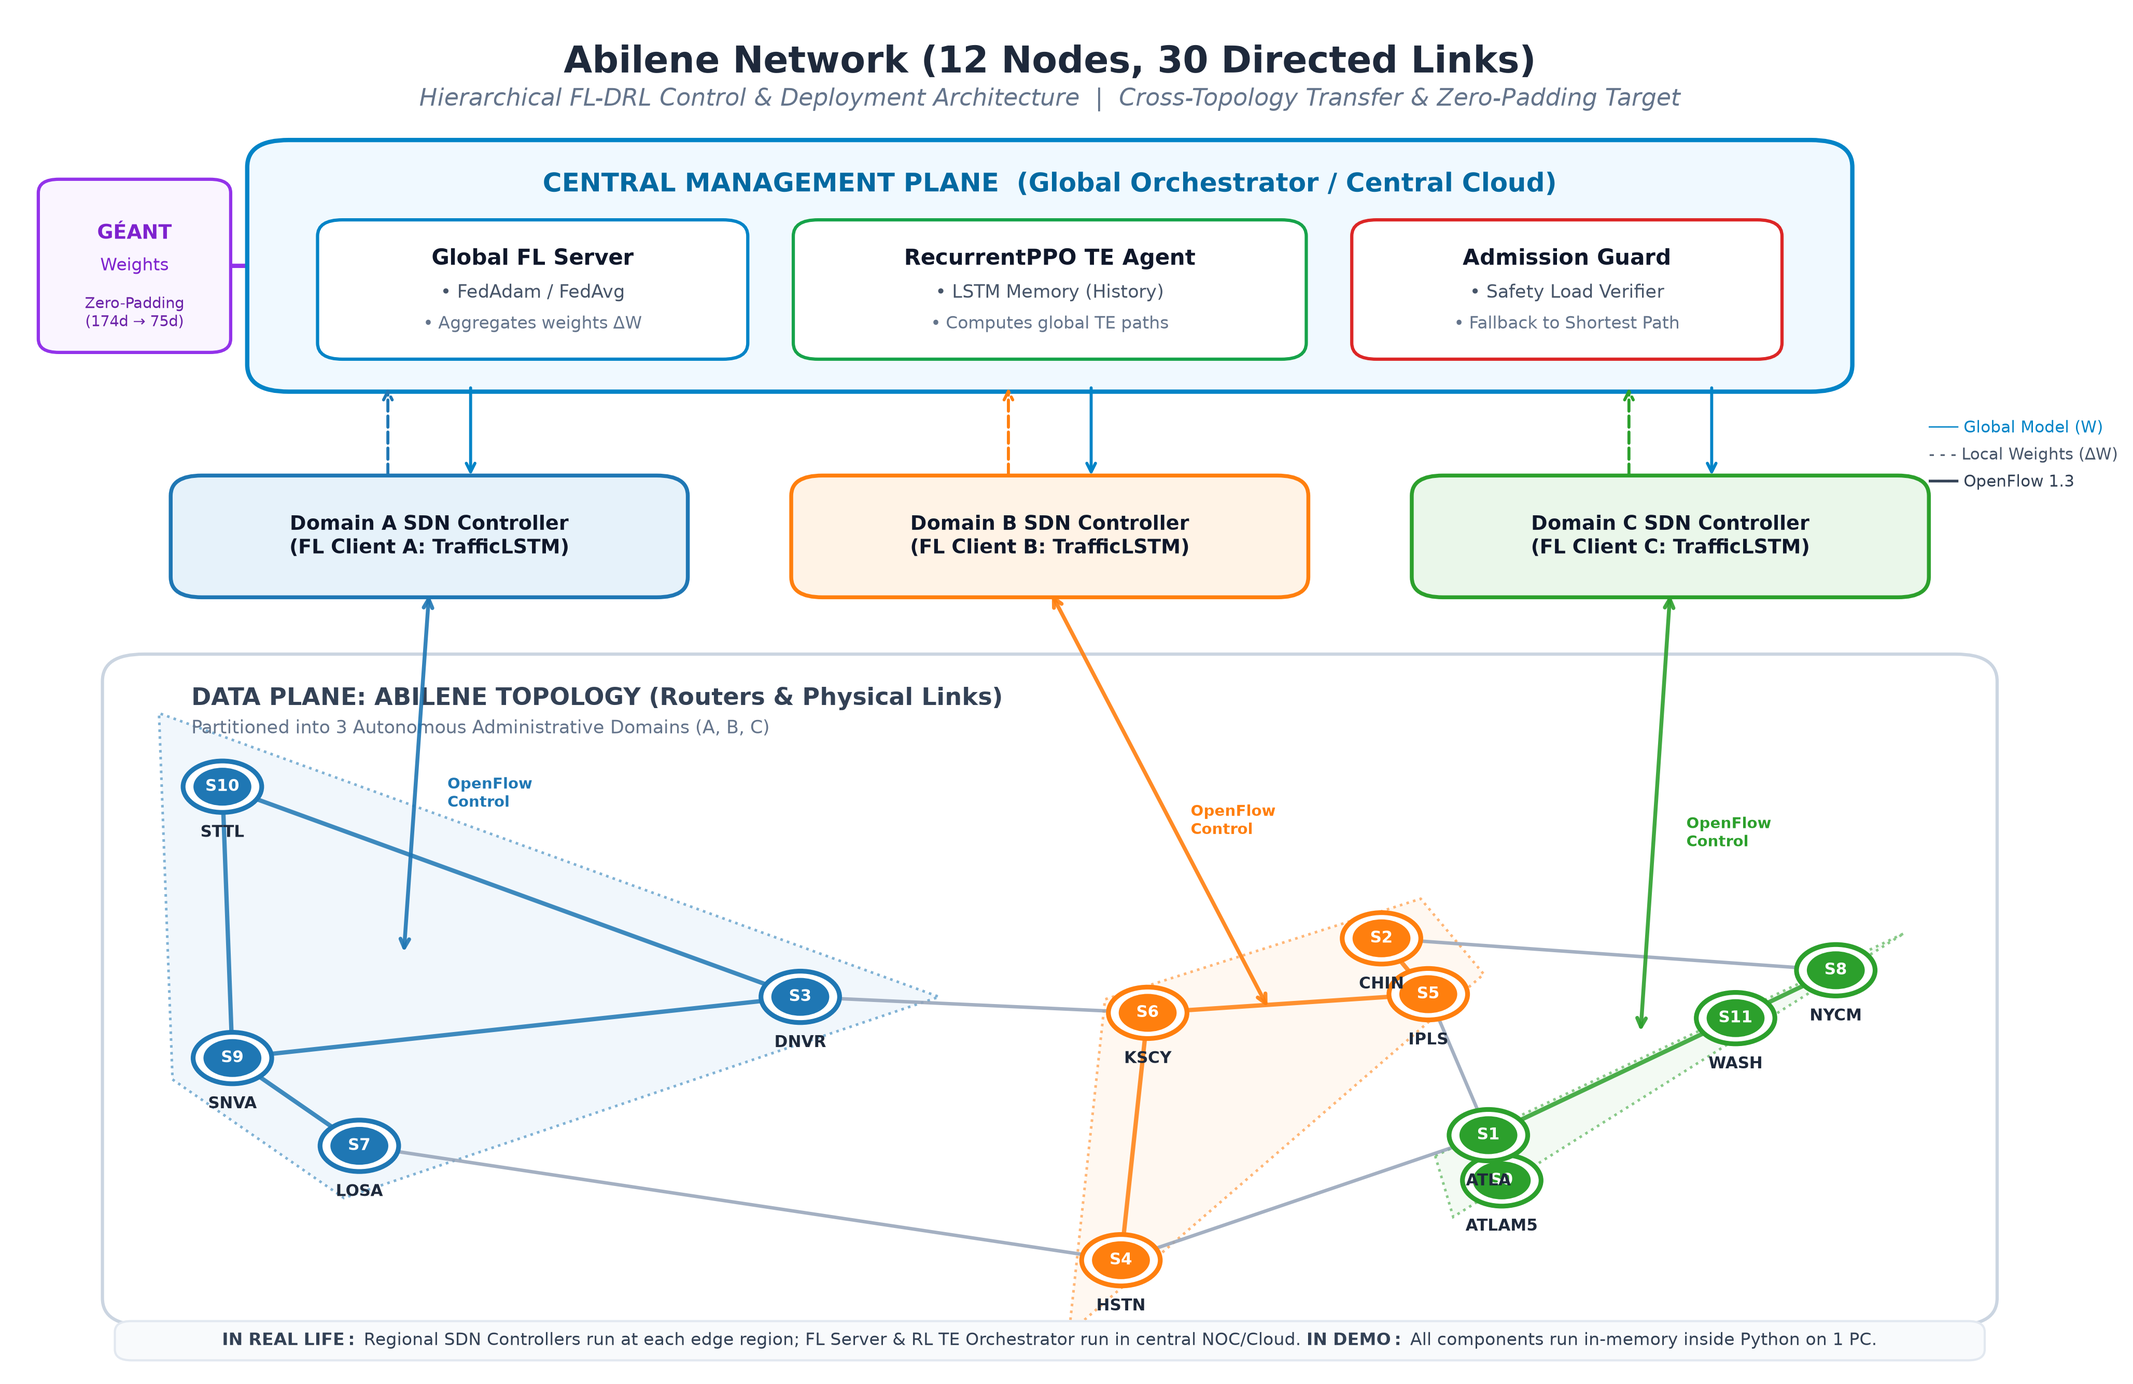
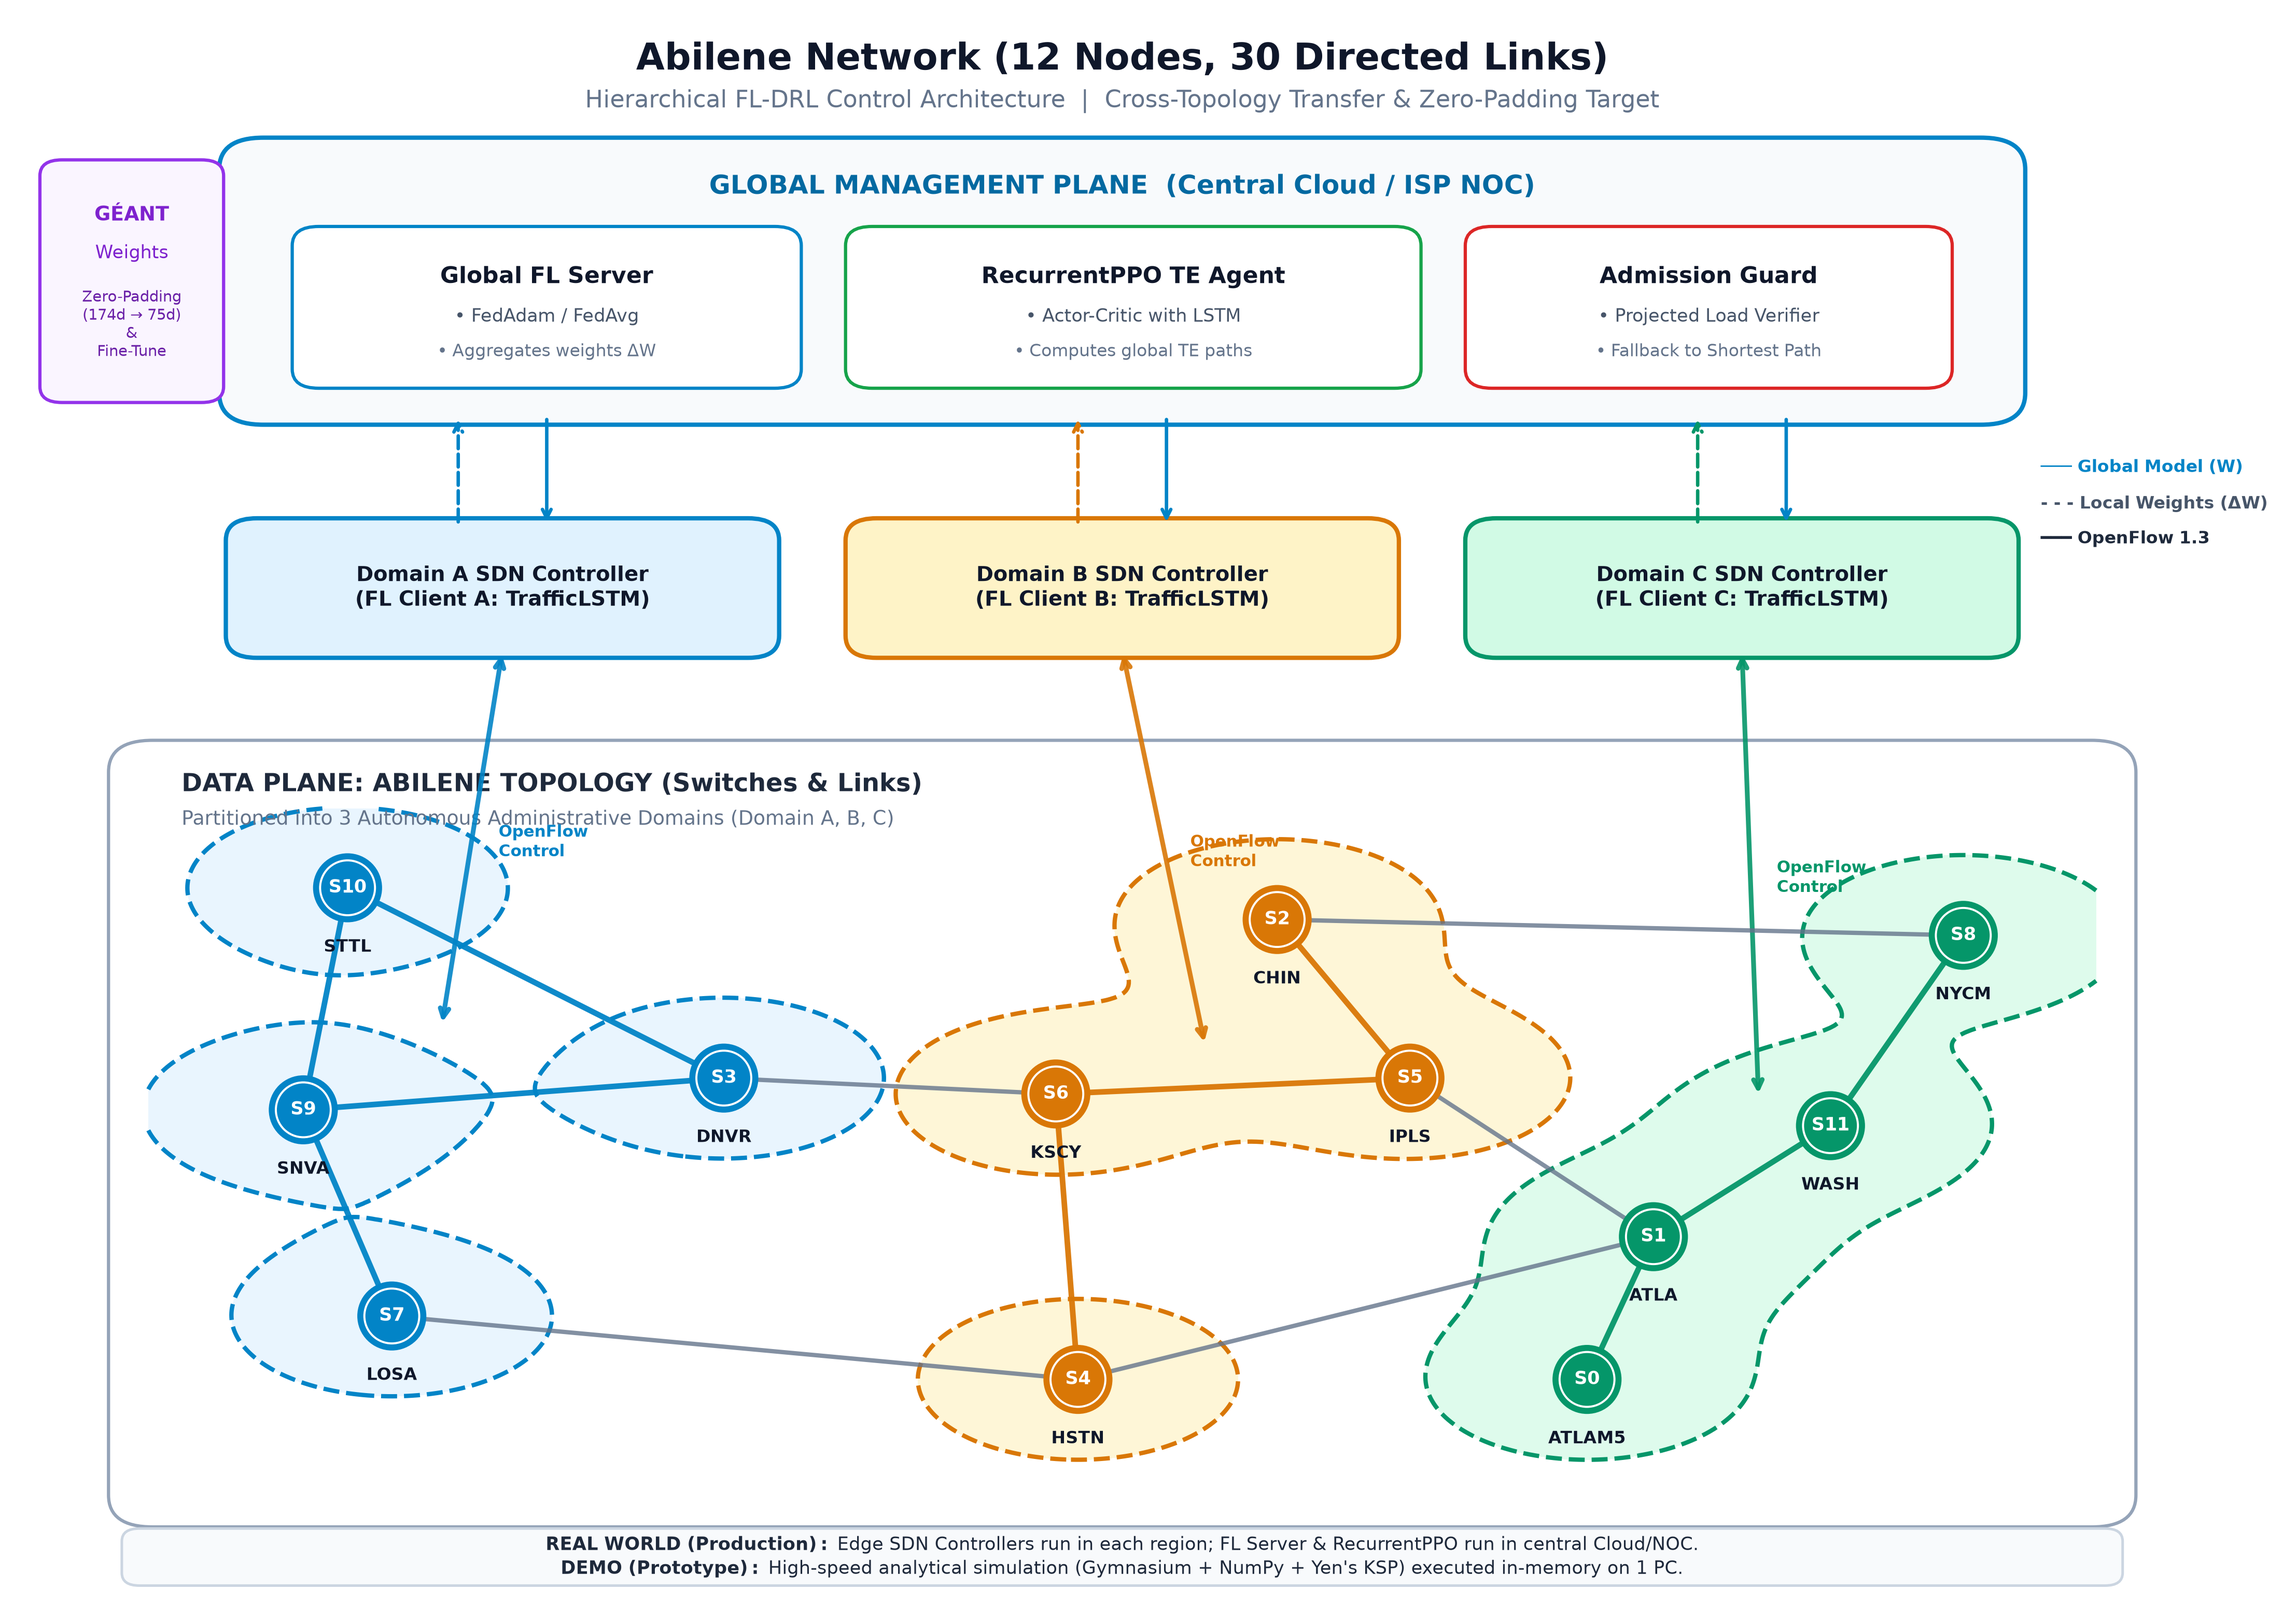
Polish topology deployment diagrams: perfect round nodes, smooth organic metaball zones, balanced non-sparse layout

diff --git a/scratch/generate_topology_diagrams_v2.py b/scratch/generate_topology_diagrams_v2.py
@@ -1,0 +1,310 @@
+import json
+import numpy as np
+import matplotlib.pyplot as plt
+import matplotlib.patches as patches
+from matplotlib.patches import FancyBboxPatch, FancyArrowPatch
+
+# Set font styling
+plt.rcParams['font.sans-serif'] = 'DejaVu Sans'
+plt.rcParams['font.family'] = 'sans-serif'
+
+# Colors for domains (Modern, accessible palette)
+COLOR_A = "#0284c7"  # Deep Sky Blue
+COLOR_B = "#d97706"  # Warm Amber
+COLOR_C = "#059669"  # Emerald Green
+
+BG_A = "#e0f2fe"
+BG_B = "#fef3c7"
+BG_C = "#d1fae5"
+
+DOMAIN_COLORS = {'A': COLOR_A, 'B': COLOR_B, 'C': COLOR_C}
+DOMAIN_BG = {'A': BG_A, 'B': BG_B, 'C': BG_C}
+
+# Carefully balanced node coordinates for Data Plane (scaled nicely to fill x: 8..92, y: 10..48)
+NSFNET_COORDS = {
+    0: (14, 45),   # WA
+    1: (12, 31),   # CA1
+    2: (15, 17),   # CA2
+    8: (25, 33),   # UT
+    7: (42, 13),   # TX
+    9: (36, 32),   # CO
+    3: (46, 35),   # NE
+    4: (56, 33),   # IL
+    5: (64, 43),   # MI
+    6: (71, 15),   # GA
+    10: (75, 34),  # PA
+    11: (83, 44),  # NY
+    12: (88, 36),  # NJ
+    13: (83, 26),  # DC
+}
+
+ABILENE_COORDS = {
+    10: (15, 45),  # STTL
+    9: (13, 31),   # SNVA
+    7: (17, 18),   # LOSA
+    3: (32, 33),   # DNVR
+    6: (47, 32),   # KSCY
+    2: (57, 43),   # CHIN
+    5: (63, 33),   # IPLS
+    4: (48, 14),   # HSTN
+    0: (71, 14),   # ATLAM5
+    1: (74, 23),   # ATLA
+    11: (82, 30),  # WASH
+    8: (88, 42),   # NYCM
+}
+
+GEANT_COORDS = {
+    11: (14, 38),  # IE
+    21: (23, 37),  # UK
+    7: (26, 26),   # FR
+    1: (31, 35),   # BE
+    15: (35, 43),  # NL
+    16: (38, 48),  # NO
+    19: (48, 48),  # SE
+    4: (41, 33),   # DE
+    2: (35, 23),   # CH
+    3: (51, 34),   # CZ
+    0: (54, 25),   # AT
+    17: (63, 42),  # PL
+    10: (64, 26),  # HU
+    20: (50, 16),  # SI
+    9: (58, 15),   # HR
+    18: (11, 13),  # PT
+    6: (19, 15),   # ES
+    14: (34, 30),  # LU
+    13: (43, 19),  # IT
+    5: (44, 43),   # DK
+    8: (75, 14),   # GR
+    12: (87, 12),  # IL
+}
+
+def draw_topology_diagram(topo_key, output_path):
+    fig_w, fig_h = 15.0, 10.5
+    fig, ax = plt.subplots(figsize=(fig_w, fig_h), dpi=300)
+    ax.set_xlim(0, 100)
+    ax.set_ylim(0, 100)
+    ax.axis('off')
+
+    # Load data
+    with open(f"data/{topo_key}_topology.json") as f:
+        topo_data = json.load(f)
+
+    nodes = topo_data['nodes']
+    links = topo_data['links']
+    coords = {'nsfnet': NSFNET_COORDS, 'abilene': ABILENE_COORDS, 'geant': GEANT_COORDS}[topo_key]
+
+    title_map = {
+        'geant': ('GÉANT Network (22 Nodes, 72 Directed Links)', 'Source In-Domain Training Topology'),
+        'nsfnet': ('NSFNET Network (14 Nodes, 42 Directed Links)', 'Cross-Topology Transfer & Fine-Tuning Target'),
+        'abilene': ('Abilene Network (12 Nodes, 30 Directed Links)', 'Cross-Topology Transfer & Zero-Padding Target')
+    }
+    main_title, sub_title = title_map[topo_key]
+
+    # Header Title
+    ax.text(50, 97.2, main_title, fontsize=17, fontweight='bold', ha='center', va='center', color='#0f172a')
+    ax.text(50, 94.6, f"Hierarchical FL-DRL Control Architecture  |  {sub_title}", 
+            fontsize=11, ha='center', va='center', color='#64748b')
+
+    # =========================================================================
+    # TIER 1: CENTRAL MANAGEMENT PLANE (Cloud / Central NOC)
+    # =========================================================================
+    top_box = FancyBboxPatch((10, 75), 80, 16.5, boxstyle="round,pad=0.8,rounding_size=2.0",
+                             ec="#0284c7", fc="#f8fafc", lw=2, zorder=2)
+    ax.add_patch(top_box)
+    
+    ax.text(50, 89.2, "GLOBAL MANAGEMENT PLANE  (Central Cloud / ISP NOC)",
+            fontsize=12, fontweight='bold', ha='center', va='center', color="#0369a1")
+
+    # Module 1: FL Server
+    fl_srv_box = FancyBboxPatch((13, 77), 22, 9.2, boxstyle="round,pad=0.5,rounding_size=1.2",
+                                ec="#0284c7", fc="#ffffff", lw=1.5, zorder=3)
+    ax.add_patch(fl_srv_box)
+    ax.text(24, 83.5, "Global FL Server", fontsize=10.5, fontweight='bold', ha='center', va='center', color='#0f172a')
+    ax.text(24, 81.0, "• FedAdam / FedAvg", fontsize=8.5, ha='center', va='center', color='#475569')
+    ax.text(24, 78.8, "• Aggregates weights ΔW", fontsize=8, ha='center', va='center', color='#64748b')
+
+    # Module 2: RecurrentPPO Agent
+    rl_box = FancyBboxPatch((38, 77), 25, 9.2, boxstyle="round,pad=0.5,rounding_size=1.2",
+                            ec="#16a34a", fc="#ffffff", lw=1.5, zorder=3)
+    ax.add_patch(rl_box)
+    ax.text(50.5, 83.5, "RecurrentPPO TE Agent", fontsize=10.5, fontweight='bold', ha='center', va='center', color='#0f172a')
+    ax.text(50.5, 81.0, "• Actor-Critic with LSTM", fontsize=8.5, ha='center', va='center', color='#475569')
+    ax.text(50.5, 78.8, "• Computes global TE paths", fontsize=8, ha='center', va='center', color='#64748b')
+
+    # Module 3: Admission Guard
+    guard_box = FancyBboxPatch((66, 77), 21, 9.2, boxstyle="round,pad=0.5,rounding_size=1.2",
+                               ec="#dc2626", fc="#ffffff", lw=1.5, zorder=3)
+    ax.add_patch(guard_box)
+    ax.text(76.5, 83.5, "Admission Guard", fontsize=10.5, fontweight='bold', ha='center', va='center', color='#0f172a')
+    ax.text(76.5, 81.0, "• Projected Load Verifier", fontsize=8.5, ha='center', va='center', color='#475569')
+    ax.text(76.5, 78.8, "• Fallback to Shortest Path", fontsize=8, ha='center', va='center', color='#64748b')
+
+    # Side badges for Transfer & Fine-Tuning
+    if topo_key == 'nsfnet':
+        t_box = FancyBboxPatch((1.5, 76), 7.5, 14.5, boxstyle="round,pad=0.4,rounding_size=1.0",
+                               ec="#9333ea", fc="#faf5ff", lw=1.5, zorder=3)
+        ax.add_patch(t_box)
+        ax.text(5.25, 87.5, "GÉANT", fontsize=9, fontweight='bold', ha='center', va='center', color='#7e22ce')
+        ax.text(5.25, 85.0, "Weights", fontsize=8.5, ha='center', va='center', color='#7e22ce')
+        ax.text(5.25, 81.0, "Zero-Shot\nTransfer\n&\nFine-Tune", fontsize=7.5, ha='center', va='center', color='#6b21a8')
+        arrow = FancyArrowPatch((9.2, 83), (12.8, 83), arrowstyle='->', mutation_scale=15, color='#9333ea', lw=2)
+        ax.add_patch(arrow)
+
+    elif topo_key == 'abilene':
+        t_box = FancyBboxPatch((1.5, 76), 7.5, 14.5, boxstyle="round,pad=0.4,rounding_size=1.0",
+                               ec="#9333ea", fc="#faf5ff", lw=1.5, zorder=3)
+        ax.add_patch(t_box)
+        ax.text(5.25, 87.5, "GÉANT", fontsize=9, fontweight='bold', ha='center', va='center', color='#7e22ce')
+        ax.text(5.25, 85.0, "Weights", fontsize=8.5, ha='center', va='center', color='#7e22ce')
+        ax.text(5.25, 80.5, "Zero-Padding\n(174d → 75d)\n&\nFine-Tune", fontsize=7, ha='center', va='center', color='#6b21a8')
+        arrow = FancyArrowPatch((9.2, 83), (12.8, 83), arrowstyle='->', mutation_scale=15, color='#9333ea', lw=2)
+        ax.add_patch(arrow)
+
+    # =========================================================================
+    # TIER 2: REGIONAL CONTROL LAYER (Domain Controllers / FL Clients)
+    # =========================================================================
+    ctrl_specs = [
+        ('A', 22, COLOR_A, BG_A, "Domain A SDN Controller\n(FL Client A: TrafficLSTM)"),
+        ('B', 50, COLOR_B, BG_B, "Domain B SDN Controller\n(FL Client B: TrafficLSTM)"),
+        ('C', 78, COLOR_C, BG_C, "Domain C SDN Controller\n(FL Client C: TrafficLSTM)")
+    ]
+
+    ctrl_centers = {}
+    for dom, cx, col, bg, label in ctrl_specs:
+        c_box = FancyBboxPatch((cx - 12, 60), 24, 7.8, boxstyle="round,pad=0.5,rounding_size=1.4",
+                               ec=col, fc=bg, lw=2, zorder=3)
+        ax.add_patch(c_box)
+        ax.text(cx, 63.9, label, fontsize=9.5, fontweight='bold', ha='center', va='center', color='#0f172a')
+        ctrl_centers[dom] = (cx, 60)
+
+        # Arrows between Central Plane and Regional Controllers
+        # Local model weights upload (ΔW)
+        ax.annotate('', xy=(cx - 2, 74.8), xytext=(cx - 2, 67.8),
+                    arrowprops=dict(arrowstyle="->", color=col, lw=1.6, ls="--"))
+        # Global model distribution (W_global)
+        ax.annotate('', xy=(cx + 2, 67.8), xytext=(cx + 2, 74.8),
+                    arrowprops=dict(arrowstyle="->", color="#0284c7", lw=1.6))
+
+    # Communication legend
+    ax.text(91.5, 71.5, "─── Global Model (W)", fontsize=8, color="#0284c7", ha='left', va='center', fontweight='bold')
+    ax.text(91.5, 69.2, "- - - Local Weights (ΔW)", fontsize=8, color="#475569", ha='left', va='center', fontweight='bold')
+    ax.text(91.5, 67.0, "━━━ OpenFlow 1.3", fontsize=8, color="#1e293b", ha='left', va='center', fontweight='bold')
+
+    # =========================================================================
+    # TIER 3: DATA PLANE (Network Topology with Smooth Gaussian Domain Zones)
+    # =========================================================================
+    dp_bg = FancyBboxPatch((5, 5.5), 90, 48, boxstyle="round,pad=0.8,rounding_size=2.0",
+                           ec="#94a3b8", fc="#ffffff", lw=1.5, zorder=1)
+    ax.add_patch(dp_bg)
+    
+    ax.text(7.5, 51.5, f"DATA PLANE: {topo_key.upper()} TOPOLOGY (Switches & Links)",
+            fontsize=11.5, fontweight='bold', ha='left', va='center', color="#1e293b")
+    ax.text(7.5, 49.3, "Partitioned into 3 Autonomous Administrative Domains (Domain A, B, C)",
+            fontsize=9, ha='left', va='center', color="#64748b")
+
+    # Smooth Gaussian Metaball Contours for Domains
+    # Meshgrid covering the data plane area
+    gx, gy = np.meshgrid(np.linspace(6, 94, 400), np.linspace(6, 50, 300))
+    # Correct for canvas aspect ratio so circles and blobs are perfectly isotropic in screen space
+    aspect_factor = fig_w / fig_h  # 15 / 10.5 = 1.42857
+
+    domain_nodes_dict = {
+        dom: [n['id'] for n in nodes if n['domain'] == dom]
+        for dom in ['A', 'B', 'C']
+    }
+
+    sigma = 5.2
+    thresh = 0.38
+
+    for dom in ['A', 'B', 'C']:
+        nids = domain_nodes_dict[dom]
+        col_border = DOMAIN_COLORS[dom]
+        col_fill = DOMAIN_BG[dom]
+
+        z = np.zeros_like(gx)
+        for nid in nids:
+            px, py = coords[nid]
+            # Isotropic Euclidean distance squared in screen coordinates
+            dist_sq = (gx - px)**2 + ((gy - py) * aspect_factor)**2
+            z += np.exp(-dist_sq / (2 * sigma**2))
+
+        # Smooth filled contour and smooth dashed border
+        ax.contourf(gx, gy, z, levels=[thresh, 999], colors=[col_fill], alpha=0.7, zorder=2)
+        ax.contour(gx, gy, z, levels=[thresh], colors=[col_border], linewidths=2.0, linestyles='--', zorder=2)
+
+    # Southbound OpenFlow Control arrows from controllers to domain centroids
+    for dom in ['A', 'B', 'C']:
+        cx, cy = ctrl_centers[dom]
+        dom_pts = [coords[nid] for nid in domain_nodes_dict[dom]]
+        avg_x = np.mean([p[0] for p in dom_pts])
+        avg_y = np.mean([p[1] for p in dom_pts])
+        
+        # Draw clean arrow from controller base to domain centroid
+        ax.annotate('', xy=(avg_x, avg_y + 4.5), xytext=(cx, 60),
+                    arrowprops=dict(arrowstyle="<->", color=DOMAIN_COLORS[dom], lw=2.2, alpha=0.9))
+        ax.text((cx + avg_x) / 2 + 1.2, (60 + avg_y) / 2 + 2, "OpenFlow\nControl",
+                fontsize=7.5, ha='left', va='center', color=DOMAIN_COLORS[dom], fontweight='bold')
+
+    # Draw Links
+    for link in links:
+        u, v = link['source'], link['target']
+        p1, p2 = coords[u], coords[v]
+        dom_u = nodes[u]['domain']
+        dom_v = nodes[v]['domain']
+        
+        if dom_u == dom_v:
+            # Intra-domain link
+            edge_col = DOMAIN_COLORS[dom_u]
+            edge_lw = 2.6
+            edge_alpha = 0.95
+        else:
+            # Inter-domain link
+            edge_col = "#64748b"
+            edge_lw = 2.0
+            edge_alpha = 0.8
+            
+        ax.plot([p1[0], p2[0]], [p1[1], p2[1]], color=edge_col, lw=edge_lw, alpha=edge_alpha, zorder=3)
+
+    # Draw Nodes using ax.scatter -> GUARANTEED 100% PERFECT CIRCLES!
+    node_xs = [coords[n['id']][0] for n in nodes]
+    node_ys = [coords[n['id']][1] for n in nodes]
+    node_colors = [DOMAIN_COLORS[n['domain']] for n in nodes]
+
+    # Outer white halo
+    ax.scatter(node_xs, node_ys, s=850, c='#ffffff', edgecolors=[DOMAIN_COLORS[n['domain']] for n in nodes],
+               linewidths=2.8, zorder=5)
+    # Inner colored circle
+    ax.scatter(node_xs, node_ys, s=550, c=node_colors, zorder=6)
+
+    # Node labels inside circles
+    for n in nodes:
+        nid = n['id']
+        px, py = coords[nid]
+        lbl = n['label']
+        # Node ID
+        ax.text(px, py, f"S{nid}", fontsize=8.5, fontweight='bold', ha='center', va='center', color='#ffffff', zorder=7)
+        # Node city label directly beneath
+        ax.text(px, py - 3.2, lbl, fontsize=8, fontweight='bold', ha='center', va='top', color='#0f172a', zorder=7)
+
+    # =========================================================================
+    # BOTTOM FOOTER BANNER (IRL vs Demo Clear Distinction)
+    # =========================================================================
+    footer_box = FancyBboxPatch((5, 1.2), 90, 3.2, boxstyle="round,pad=0.2,rounding_size=0.8",
+                                ec="#cbd5e1", fc="#f8fafc", lw=1.2, zorder=2)
+    ax.add_patch(footer_box)
+    
+    info_text = (
+        r"$\bf{REAL\ WORLD\ (Production):}$ Edge SDN Controllers run in each region; FL Server & RecurrentPPO run in central Cloud/NOC."
+        "\n"
+        r"$\bf{DEMO\ (Prototype):}$ High-speed analytical simulation (Gymnasium + NumPy + Yen's KSP) executed in-memory on 1 PC."
+    )
+    ax.text(50, 2.8, info_text, fontsize=8.5, ha='center', va='center', color='#1e293b', linespacing=1.3)
+
+    plt.tight_layout()
+    plt.savefig(output_path, dpi=300, bbox_inches='tight')
+    plt.close()
+    print(f"Generated clean v2 diagram: {output_path}")
+
+if __name__ == '__main__':
+    for topo in ['geant', 'nsfnet', 'abilene']:
+        draw_topology_diagram(topo, f"report/figures/topology_deployment_{topo}.png")
